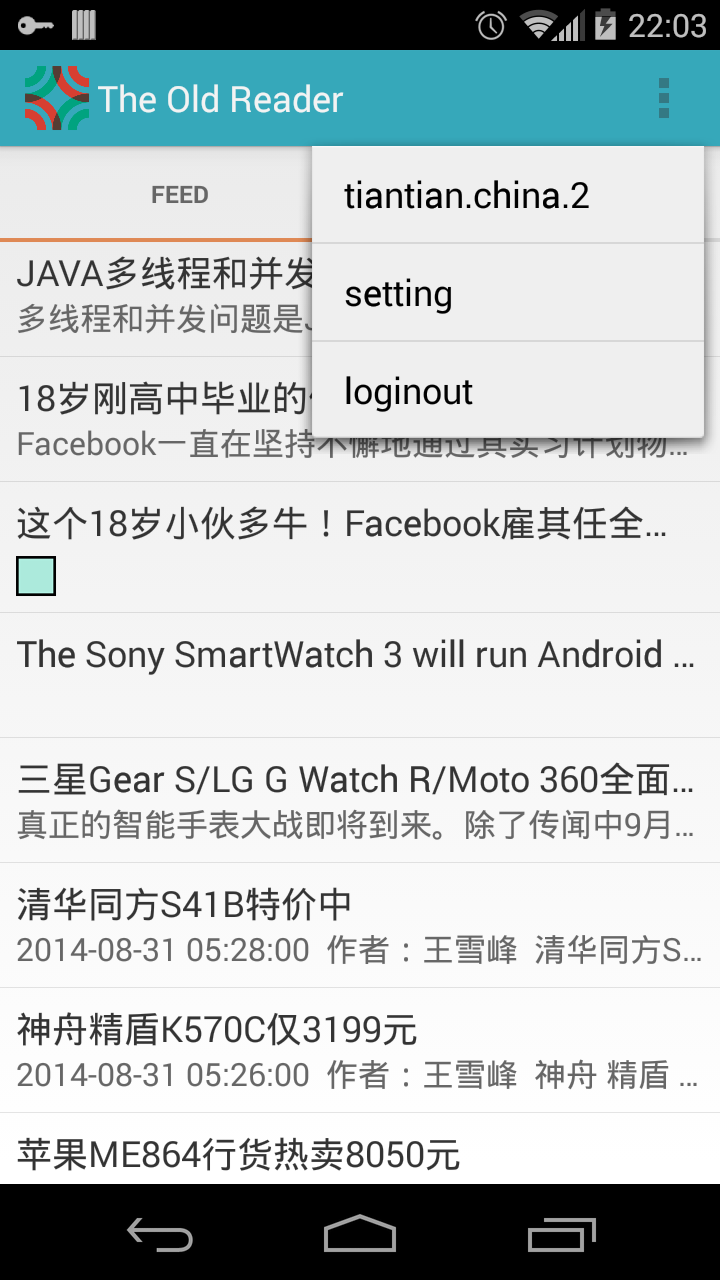
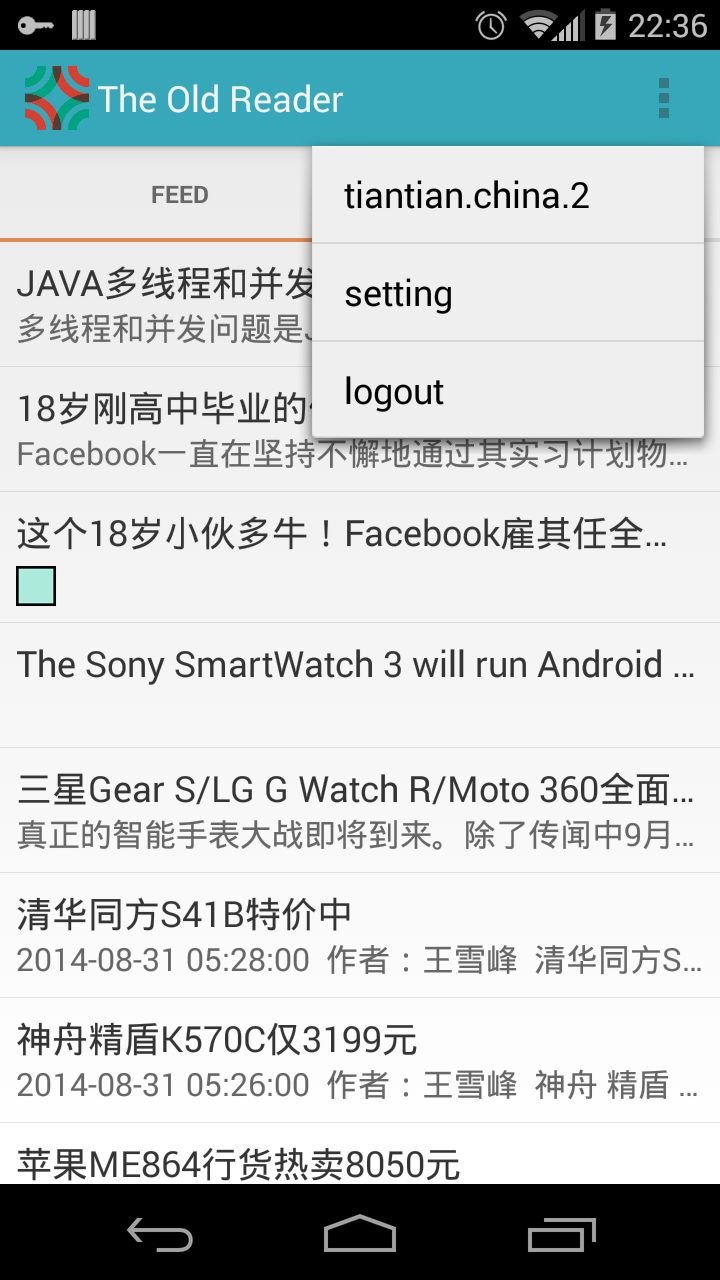
修复笔误

diff --git a/src/com/wangjie/theoldreaderforandroid/ui/activity/MainActivity.java b/src/com/wangjie/theoldreaderforandroid/ui/activity/MainActivity.java
@@ -12,14 +12,11 @@ import android.view.MenuItem;
 import android.widget.Toast;
 import com.astuetz.PagerSlidingTabStrip;
 import com.wangjie.androidbucket.log.Logger;
-import com.wangjie.androidbucket.objs.DelayObj;
 import com.wangjie.androidbucket.utils.ABPrefsUtil;
 import com.wangjie.androidinject.annotation.annotations.base.AILayout;
 import com.wangjie.androidinject.annotation.annotations.base.AIView;
 import com.wangjie.theoldreaderforandroid.R;
-import com.wangjie.theoldreaderforandroid.database.DbExecutor;
 import com.wangjie.theoldreaderforandroid.entity.CustomDelayTab;
-import com.wangjie.theoldreaderforandroid.entity.FeedItem;
 import com.wangjie.theoldreaderforandroid.prefs.PrefsKey;
 import com.wangjie.theoldreaderforandroid.ui.base.BaseActivity;
 import com.wangjie.theoldreaderforandroid.ui.base.BaseFragment;
@@ -85,12 +82,12 @@ public class MainActivity extends BaseActivity {
             case R.id.menu_main_loginout:
                 new AlertDialog.Builder(context)
                         .setTitle("Warn")
-                        .setMessage("Login Out?")
+                        .setMessage("Logout?")
                         .setNegativeButton("No", null)
                         .setPositiveButton("Yes", new DialogInterface.OnClickListener() {
                             @Override
                             public void onClick(DialogInterface dialog, int which) {
-                                AppUtil.loginOut(context);
+                                AppUtil.logout(context);
                                 finish();
                             }
                         })

diff --git a/src/com/wangjie/theoldreaderforandroid/util/AppUtil.java b/src/com/wangjie/theoldreaderforandroid/util/AppUtil.java
@@ -17,7 +17,7 @@ public class AppUtil {
      * 退出登录
      * @param context
      */
-    public static void loginOut(Context context){
+    public static void logout(Context context){
         Intent iLoginOut = new Intent(context, LoginActivity.class);
         iLoginOut.setFlags(Intent.FLAG_ACTIVITY_CLEAR_TOP);
         ABPrefsUtil.getInstance().editor.clear().commit();
